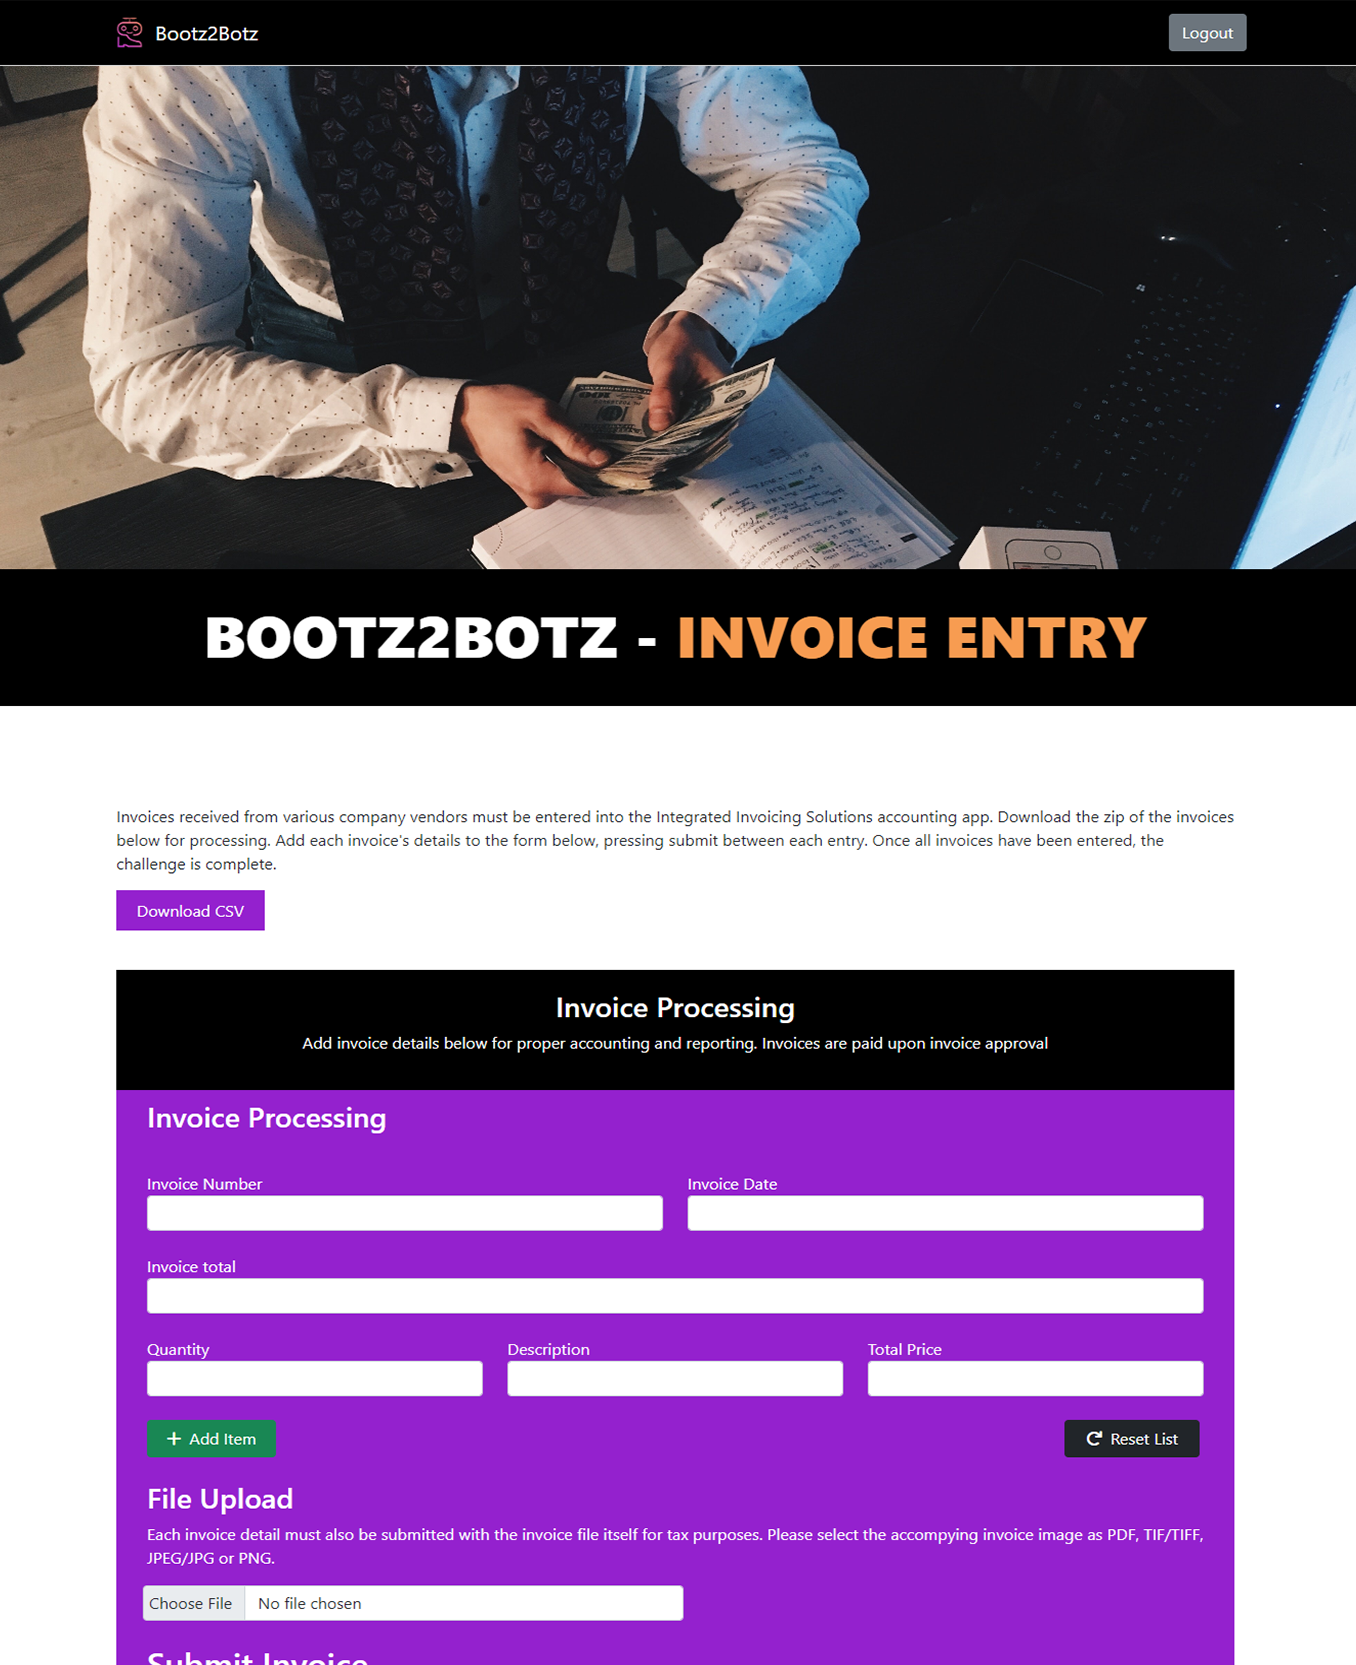
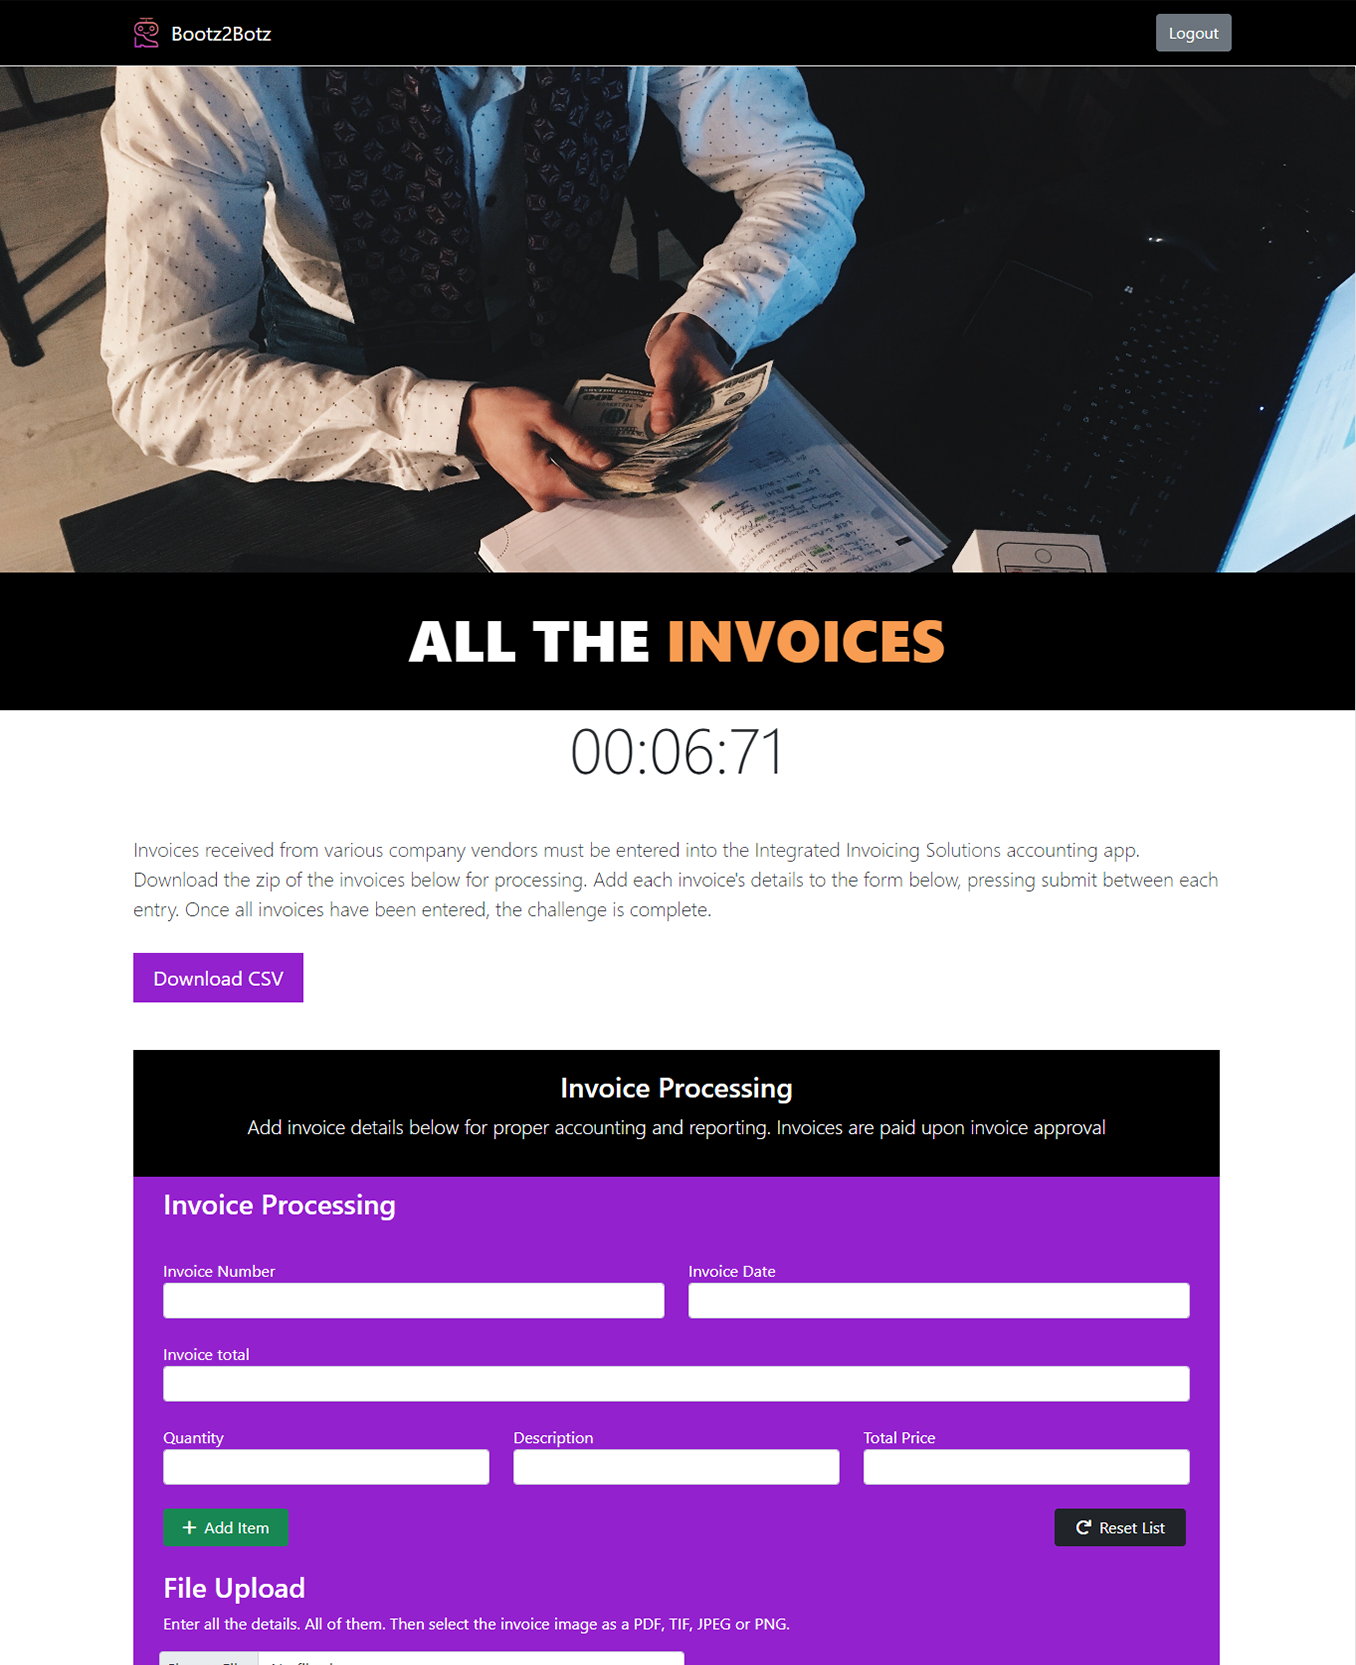
Tuesday Night

diff --git a/resources/views/home.blade.php b/resources/views/home.blade.php
@@ -62,7 +62,8 @@
                             <div class="challenge">
                                 <div class="header-chal">
                                     <h1>
-                                        Quarter Close- Review Transaction
+                                    End of Quarter Review
+
                                     </h1>
                                 </div>
 
@@ -74,13 +75,8 @@
                                         <div class="row col-lg-9 p-3">
                                             <div class="col-10">
                                                 <p>
-                                                    Many automation use cases require researching and validating data across
-                                                    multiple systems. In this challenge, the finance department of Peters
-                                                    Manufacturing spends a significant amount of time doing very important
-                                                    work: making sure that all of the financial obligations were met, they
-                                                    were invoiced on time, that they paid on time and that, all payments
-                                                    cleared in the expected time period. For each listed transaction,
-                                                    validate that the transaction appears/cleared in the company’s bank.
+                                                It’s that time of the quarter, review time! We all know how fun it is to crunch all those numbers. We all just wish it were that time of the quarter every day……right? No way. That’s why we are going to automate this task. 
+
                                                     <br>
                                                     <hr>
 
@@ -102,7 +98,8 @@
                                 <div class="header-chal">
                                     <h1>
 
-                                        Online Grocery Ordering
+                                    Grocery Store? I don’t think so!
+
                                     </h1>
                                 </div>
 
@@ -114,12 +111,8 @@
                                         <div class="row col-lg-9 p-3">
                                             <div class="col-10">
                                                 <p>
-                                                    Learning to interact with both web objects and data sources is key to
-                                                    being a successful RPA developer. In this challenge, you’ll need to
-                                                    download the provided shopping list and add each item from the list to
-                                                    the shopping order before acknowledging the terms and submitting the
-                                                    order. Once the order has been submitted, the scoring modal will display
-                                                    your results.
+                                                If you want to win this one, you will have to download the shopping list from the page and then add each item from the provided list onto your order. If you want your food, don’t forget to acknowledge the site’s terms and complete your order! 
+
                                                     <br>
                                                     <hr>
                                                 </p>
@@ -144,7 +137,9 @@
 
 
 
-                                        Invoice Processing – Accounts Payable
+                                    All the Invoices 
+
+
                                     </h1>
                                 </div>
 
@@ -156,16 +151,8 @@
                                         <div class="row col-lg-9 p-3">
                                             <div class="col-10">
                                                 <p>
-                                                    Almost all organizations have an Accounts Payable department –
-                                                    responsible for vendor/partner invoice processing among other tasks. In
-                                                    this challenge, invoice details from various vendors need to be entered
-                                                    into the Integrated Invoicing Solutions web app. Download the provided
-                                                    zip of invoices and extract all invoice data (invoice number, invoice
-                                                    date, invoice total, as well as quantity, item description, and total
-                                                    price for each line item). With all data extracted, enter all invoice
-                                                    data into the provided web app before uploading and submitting each
-                                                    invoice. Process all invoices to display the scoring modal with your
-                                                    challenge results.
+                                                Every company wants to make money, it’s how you get paid. But to do that, the company needs to have a good system of entering its invoices into their newly designed web app. Automation is the key to simplifying this process. Let’s see what you can do. 
+
 
                                                     <br>
                                                     <hr>
@@ -191,7 +178,9 @@
                                     <h1>
 
 
-                                        Customer Onboarding – Front Office
+                                    
+Clie-Intel
+
                                     </h1>
                                 </div>
 
@@ -203,12 +192,8 @@
                                         <div class="row col-lg-9 p-3">
                                             <div class="col-10">
                                                 <p>
-                                                    Almost all production bots will require some use of selection statements
-                                                    (if/else) and repetition (looping). In this challenge, new corporate
-                                                    customers need to be added to The Cable Co’s customer relationship
-                                                    management system. Download the new customers CSV and correctly enter
-                                                    the customer onboarding details for each new customer. Once all new
-                                                    customers have been added, the scoring modal will display your results.
+                                                You have such a great personality that you were able to establish new friendships…..or at least business relationships. Take all the information you were able to pull out of your new “friends” and put them into our information collection system…..errr……customer relationship management tool. 
+
                                                     <br>
                                                     <hr>
                                                 </p>

diff --git a/resources/views/challenges/invoice_accounts.blade.php b/resources/views/challenges/invoice_accounts.blade.php
@@ -96,7 +96,8 @@
 
                         <div class="blackline">
                             <div class="hero-text">
-                                <h1 style="font-size: 3.7rem;">Bootz2Botz - <span style="color: #f79c51"> Invoice Entry
+                                <h1 style="font-size: 3.7rem;">All the  
+  <span style="color: #f79c51"> Invoices
                                     </span></h1>
 
                             </div>
@@ -120,10 +121,8 @@
                             <div class="headertext">
 
                                 <p class="lead">
-                                    Invoices received from various company vendors must be entered into the Integrated
-                                    Invoicing Solutions accounting app. Download the zip of the invoices below for
-                                    processing. Add each invoice's details to the form below, pressing submit between each
-                                    entry. Once all invoices have been entered, the challenge is complete.
+                                Invoices received from various company vendors must be entered into the Integrated Invoicing Solutions accounting app. Download the zip of the invoices below for processing. Add each invoice's details to the form below, pressing submit between each entry. Once all invoices have been entered, the challenge is complete.
+
 
 
 
@@ -148,7 +147,7 @@
 
                             <div class="transactionBox mt-5">
                                 <div class="headerBlack">
-                                    <h3>Invoice Processing
+                                    <h3>All the Invoices
 
                                         </h2>
                                         <p class="lead">Add invoice details below for proper accounting and reporting.
@@ -245,10 +244,8 @@
                                                 </h2>
 
                                                 <p>
-                                                    Each invoice detail must also be submitted with the invoice file
-                                                    itself for tax purposes. Please select the accompying invoice
-                                                    image
-                                                    as PDF, TIF/TIFF, JPEG/JPG or PNG.
+                                                Enter all the details. All of them. Then select the invoice image as a PDF, TIF, JPEG or PNG. 
+
 
 
                                                 </p>
@@ -266,14 +263,13 @@
                                                 <h2> Submit Invoice
                                                 </h2>
                                                 <p>
-                                                    By submitting the invoice above, I acknowledge that the invoice details
-                                                    are true to the best of my knowledge. Once the invoice is submitted, it
-                                                    will go through an approval process before payment is submitted. For
-                                                    immediate payment or questions, please contact the Accounts Payable team
-                                                    at AP_Processing@FakeCompany.com
+                                                By submitting the invoice above, I acknowledge that the invoice details are true to the best of my automation ability. If it is not accurate, I will likely lose this round and not move on to the next. 
+
                                                     <br>
 
-                                                    Please acknowledge that you agree to the terms above:
+                                                    Please acknowledge that these are the terms, and you must click this box whether or not you agree with them, to move onto the next round. 
+
+
 
 
 

diff --git a/resources/views/challenges/lunch_ordering.blade.php b/resources/views/challenges/lunch_ordering.blade.php
@@ -96,7 +96,8 @@
 
                         <div class="blackline">
                             <div class="hero-text">
-                                <h1 style="font-size: 3.7rem;">Bootz2Botz - <span style="color: #f79c51"> Lunch Order
+                                <h1 style="font-size: 3.7rem;">Grocery Store? 
+ - <span style="color: #f79c51"> I don’t think so!
                                     </span></h1>
 
                             </div>
@@ -120,9 +121,8 @@
                                 <h2>Shopping List
                                 </h2>
                                 <p>
-                                    We have a spreadsheet with everyone's favorite foods. Download the spreadsheet and make
-                                    sure that
-                                    all of the food is added to the shopping list before submitting the order.
+                                Everyone’s got different food they want from the store. They have entered their choices into a spreadsheet. Download their list and be sure their food gets added to the order……or they could get angry and leave you out of the next round. 
+
 
 
 
@@ -179,17 +179,12 @@
                                         <div class="col-lg-12">
                                             <h2> Send My Order </h2>
                                             <p>
-                                                Once all items have been added to your shopping list, press the submit
-                                                button and one of
-                                                our friendly robotic shoppers will go find all items you've entered in your
-                                                list and
-                                                assemble your order. That robot will then hand the bagged groceries over to
-                                                another
-                                                robot who will drive them to your house and deliver them to you. We're still
-                                                working on
-                                                a robot that can cook the food for you, expect that next quarter.
-                                                <br>
+                                            After you make sure that everyone’s favorites are entered, make sure the bot clicks on the submit button and you will find out how you did! 
 
+
+
+                                                <br>
+<br>
                                                 Please acknowledge that you agree to the terms above:
 
                                             </p>

diff --git a/resources/views/challenges/quarter_close.blade.php b/resources/views/challenges/quarter_close.blade.php
@@ -16,8 +16,9 @@
 
                         <div class="blackline">
                             <div class="hero-text">
-                                <h1 style="font-size: 3.7rem;">Quarter Close - <span style="color: #f79c51"> Review
-                                        Transaction </span></h1>
+                                <h1 style="font-size: 3.7rem;">End of Quarter 
+ - <span style="color: #f79c51"> Review
+                                         </span></h1>
 
                             </div>
 
@@ -35,16 +36,10 @@
 
                             <div class="headertext">
                                 <p>
-                                    The finance department of Peters Manufacturing needs your help. At the end of each
-                                    fiscal quarter, the finance team spends a significant amount of time doing very
-                                    important work: making sure that all of the financial obligations that were met,
-                                    they were invoiced on time, that they paid on time and that, all payments cleared in
-                                    the expected time period.
+                                You’ve been designated as the one person that can make an improvement in the review process by automating a function of our review. Check for confirmed matches. Where there is a match, mark it as “verified.” If there is no match, label it as “unverified” so that the team can look into the line item a little deeper. Saving this many man hours would make any parent proud! 
+
                                     <br>
-                                    For each of the transactions below, find the matching transaction in the Arcadia
-                                    Banking application. If a match is found, mark the transaction as 'Verified'. If no
-                                    match is found, mark the trasaction as 'Unverified' so that the finance team can dig
-                                    into this transaction further.
+                                    
                                     <br> <br>
                                 <p class="my-0"> <b> Kado BankUsername:</b> Jeremy@gmail.com </p>
                                 <p> <b> Kado Bank Password:</b> Jeremy1234! </p>

diff --git a/resources/views/challenges/customer_onboarding.blade.php b/resources/views/challenges/customer_onboarding.blade.php
@@ -96,7 +96,9 @@
 
                         <div class="blackline">
                             <div class="hero-text">
-                                <h1 style="font-size: 3.7rem;">Bootz2Botz - <span style="color: #f79c51"> CUSTOMER ONBOARDING
+                                <h1 style="font-size: 3.7rem;">
+Clie-Intel
+  <span style="color: #f79c51">
                                     </span></h1>
 
                             </div>
@@ -120,11 +122,7 @@
                             <div class="headertext">
 
                                 <p>
-                                    New corporate customers need to be added to The Cable Co's customer relationship
-                                    management system. Download the CSV below and enter each missing customer's information.
-                                    Click 'Register' after entering each customer's details to commit them to the CRM. Once
-                                    all 7 customers' details have been entered, your score for the exercise will be
-                                    displayed.
+                                Download the csv with all your new corporate intelligence and enter the missing information into our system. Make sure to click “register” after entering each customers details or you won’t be given credit for all your hard work. You also won’t move onto the next round. Dagger. 
 
                                     <br> <br>
                                     {{-- <a style="text-decoration: none" href="{{ asset('images/Missing Customers.csv') }}"
@@ -144,7 +142,7 @@
 
                             <div class="transactionBox mt-5">
                                 <div class="headerBlack">
-                                    <h3>Customer OnBoarding
+                                    <h3>Clie-Intel
 
                                         </h2>
                                         <p>Please fill in customer details to add each new customer to the customer
